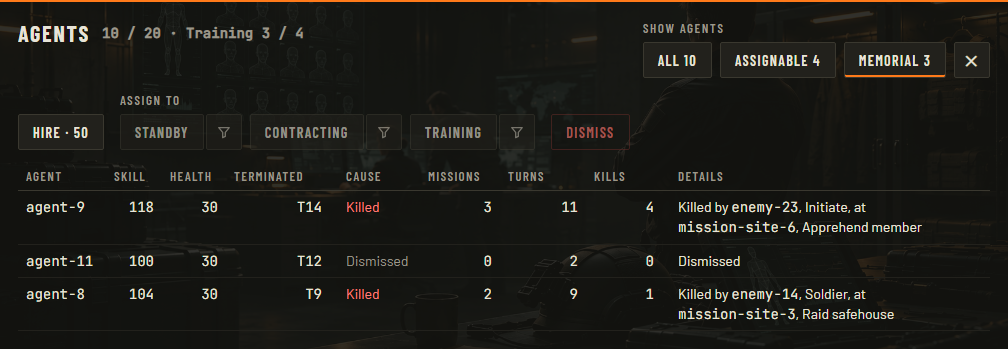
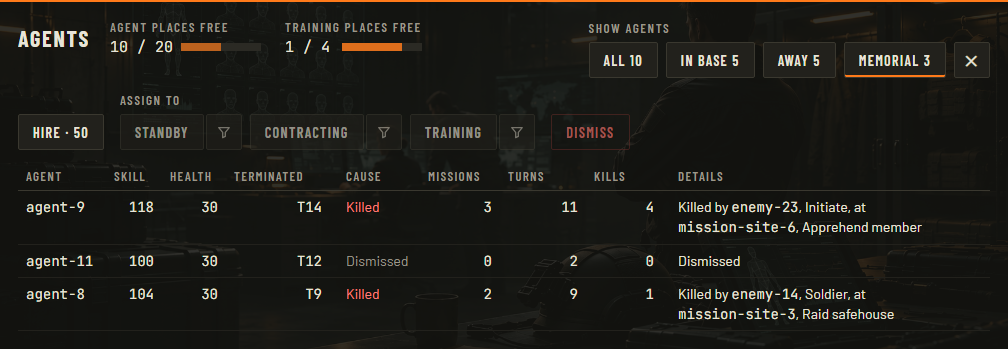
Add In base and Away, cap bars in the Agents View, and exclude GEO-3
Agents defines In base and Away as a partition of the Serving Agents,
independent of current health and exhaustion, and uses them where it
spoke loosely of agents in base or away.

The Agents View replaces the Assignable row filter with In base and
Away, and its header shows Agent places free and Training places free,
each with a fixed-width cap bar filled with the taken share, a new
component in Visual Design. Both Agents View Artboards are redrawn.

The music README gains an Excluded tracks section naming GEO-3, which
Music now leaves out of the Soundtrack, pending the Game designer's
review.

Changed region(s): [[0.0, 0.0573, 0.4306, 0.1719], [0.5843, 0.0573, 0.8304, 0.2292]]

diff --git a/docs/derived/glossary.md b/docs/derived/glossary.md
@@ -40,6 +40,7 @@ This page inventories declared glossary entries. It does not establish terminolo
 | Autopilot progress            | The Player actions and Turn advancements counted toward the Autopilot limit in the current Autopilot engagement, reported to the [Session controller](../specs/design/foundation/engine-contract.md#principals-and-access). The [Autopilot AI](../specs/design/foundation/engine-contract.md#principals-and-access) does not receive it.                                                                                                                                                                                                                                                                               | [AUTO — Autopilot](../specs/design/foundation/autopilot.md#glossary)                                                            |
 | Autosave                      | A Campaign save that the engine writes without a save request from the [Session controller](../specs/design/foundation/engine-contract.md#principals-and-access), under [Autosaves](../specs/design/foundation/saves.md#autosaves).                                                                                                                                                                                                                                                                                                                                                                                    | [SAVES — Saves](../specs/design/foundation/saves.md#glossary)                                                                   |
 | Autosave limit                | The number of Turns whose Turn-end Autosave is kept for one Campaign. It is a setting in [Global configuration](../specs/design/foundation/engine-contract.md#persisted-data).                                                                                                                                                                                                                                                                                                                                                                                                                                         | [SAVES — Saves](../specs/design/foundation/saves.md#glossary)                                                                   |
+| Away                          | Of a Serving Agent: not In base, i.e. In transit to any Assignment, Deployed, or At assignment on an Away Assignment, whatever its current health and exhaustion.                                                                                                                                                                                                                                                                                                                                                                                                                                                      | [AGENT — Agents](../specs/design/mechanics/agents-spec.md#glossary)                                                             |
 | Away Assignment               | Contracting or an [Investigation](../specs/design/mechanics/domain-model.md#leads-investigations-mission-sites-and-missions), the Assignments an Agent carries out away from base. Every move to or from them starts [In transit](../specs/design/mechanics/domain-model.md#agency-and-agents), and an Agent on one can only be recalled to Standby.                                                                                                                                                                                                                                                                   | [AGENT — Agents](../specs/design/mechanics/agents-spec.md#glossary)                                                             |
 | Background artwork            | An image that a [Detail view](../specs/design/ui/gui.md#glossary) draws faintly behind its content, under [Background artwork](../specs/design/ui/visual-design.md#background-artwork).                                                                                                                                                                                                                                                                                                                                                                                                                                | [VIS — Visual Design](../specs/design/ui/visual-design.md#glossary)                                                             |
 | Base Assignment               | Standby or Training, the Assignments an Agent carries out in the Agency's base. Moving between them takes no transit, and only an Agent on one can be deployed or given an Away Assignment.                                                                                                                                                                                                                                                                                                                                                                                                                            | [AGENT — Agents](../specs/design/mechanics/agents-spec.md#glossary)                                                             |
@@ -147,6 +148,7 @@ This page inventories declared glossary entries. It does not establish terminolo
 | Implementation repo           | A local Git repository whose root directory `<implementation-name>/` has the same parent directory as the Spec repo and which holds exactly one Implementation, e.g. `repos/game-v5-impl-a/`. Where the context means a place on disk, it means that root directory.                                                                                                                                                                                                                                                                                                                                                   | [PLACE — Implementation Placement](../specs/implementation/mandatory/implementation-placement.md#glossary)                      |
 | Implementer                   | The Persona that implements specifications as code and tests.                                                                                                                                                                                                                                                                                                                                                                                                                                                                                                                                                          | [CONV — Specification Conventions](../specs/governance/conventions/spec-conventions.md#glossary)                                |
 | Implementer feedback          | What an [Implementer](../specs/governance/conventions/spec-conventions.md#participants) learns about the specifications while building or updating an Implementation: the defects it met and the choices it made in their gaps.                                                                                                                                                                                                                                                                                                                                                                                        | [LOOP — Development Loop](../specs/governance/process/development-loop.md#glossary)                                             |
+| In base                       | Of a Serving Agent: At assignment on a Base Assignment, or Recovering, whatever its current health and exhaustion. Every Serving Agent is either In base or Away.                                                                                                                                                                                                                                                                                                                                                                                                                                                      | [AGENT — Agents](../specs/design/mechanics/agents-spec.md#glossary)                                                             |
 | In transit                    | The Agent status of an Agent still travelling to its Assignment.                                                                                                                                                                                                                                                                                                                                                                                                                                                                                                                                                       | [DOM — Domain Model](../specs/design/mechanics/domain-model.md#glossary)                                                        |
 | Incapacitated                 | Alive but too weakened to take further part in the current Combat.                                                                                                                                                                                                                                                                                                                                                                                                                                                                                                                                                     | [COMBAT — Combat](../specs/design/mechanics/combat.md#glossary)                                                                 |
 | Increment                     | How much one acquisition of an Upgrade raises the value it improves: the Upgrade's `increment`.                                                                                                                                                                                                                                                                                                                                                                                                                                                                                                                        | [ECON — Economy and Upgrades](../specs/design/mechanics/economy-and-upgrades.md#glossary)                                       |
@@ -284,6 +286,7 @@ Each row lists the Prohibited synonyms that the owning Glossary records for a te
 | Delegation run                                                                                                                                                                                                                                                                       | Autopilot engagement       | [ENG — Engine Contract](../specs/design/foundation/engine-contract.md#glossary)                    |
 | Delegation scope                                                                                                                                                                                                                                                                     | Autopilot limit            | [AUTO — Autopilot](../specs/design/foundation/autopilot.md#glossary)                               |
 | Autopilot memory checkpoint                                                                                                                                                                                                                                                          | Autopilot memory           | [ENG — Engine Contract](../specs/design/foundation/engine-contract.md#glossary)                    |
+| Out of base                                                                                                                                                                                                                                                                          | Away                       | [AGENT — Agents](../specs/design/mechanics/agents-spec.md#glossary)                                |
 | Maximum health; max health; full health                                                                                                                                                                                                                                              | Base health                | [AGENT — Agents](../specs/design/mechanics/agents-spec.md#glossary)                                |
 | Skill, naming the stored value                                                                                                                                                                                                                                                       | Base skill                 | [AGENT — Agents](../specs/design/mechanics/agents-spec.md#glossary)                                |
 | Weapon damage, naming the stored value                                                                                                                                                                                                                                               | Base weapon damage         | [AGENT — Agents](../specs/design/mechanics/agents-spec.md#glossary)                                |
@@ -310,6 +313,7 @@ Each row lists the Prohibited synonyms that the owning Glossary records for a te
 | Content entry; Content; entry; entries; Content definition; GDR role, for which say GDR purpose. The Content Family, document titles, and the Display content GDR purpose keep their names.                                                                                          | Game Data Record (GDR)     | [CORE — Core Concepts](../specs/design/foundation/core-concepts.md#glossary)                       |
 | Damage, as a noun on its own                                                                                                                                                                                                                                                         | Health removed             | [COMBAT — Combat](../specs/design/mechanics/combat.md#glossary)                                    |
 | Implementor                                                                                                                                                                                                                                                                          | Implementer                | [CONV — Specification Conventions](../specs/governance/conventions/spec-conventions.md#glossary)   |
+| At base                                                                                                                                                                                                                                                                              | In base                    | [AGENT — Agents](../specs/design/mechanics/agents-spec.md#glossary)                                |
 | Offensive mission                                                                                                                                                                                                                                                                    | Initiative Mission site    | [DOM — Domain Model](../specs/design/mechanics/domain-model.md#glossary)                           |
 | ID; Entity ID. GDR identifiers, Spec IDs, and other identifiers keep their own names.                                                                                                                                                                                                | Instance ID                | [CINST — Campaign Instances](../specs/design/foundation/campaign-instances.md#glossary)            |
 | Attempt. Attempts to execute commands or undertake Missions remain distinct.                                                                                                                                                                                                         | Investigation              | [DOM — Domain Model](../specs/design/mechanics/domain-model.md#glossary)                           |

diff --git a/docs/specs/design/mechanics/agents-spec.md b/docs/specs/design/mechanics/agents-spec.md
@@ -12,9 +12,9 @@
 
 Agents are the player's main resource: an [Agent](domain-model.md#agency-and-agents) is an operative of the [Agency](domain-model.md#agency-and-agents) who can do
 only one thing at a time, and changing what it does costs time. That one thing is its [Assignment](domain-model.md#agency-and-agents), e.g.
-Contracting to earn money or Training to gain base skill. Standby and Training are in the Agency's base, and Contracting
-and Investigations are away. Every trip to or from away work costs an Advance turn In transit, and only an Agent in base
-can be sent away or deployed to a [Mission site](domain-model.md#leads-investigations-mission-sites-and-missions), so Agents away are not at hand for one.
+Contracting to earn money or Training to gain base skill. Standby and Training are in the Agency's base, and
+Contracting and Investigations away. Every trip to or from away work costs an Advance turn In transit, and only an
+Agent In base, unless Recovering, can be sent away or deployed to a [Mission site](domain-model.md#leads-investigations-mission-sites-and-missions), so an Agent Away is not at hand.
 
 How well an Agent works and fights is its effective skill: its base skill, lowered by lost current health and by exhaustion
 above a free amount. Training raises base skill; work and [Combats](domain-model.md#combat) wear it down, so choosing an Assignment often
@@ -69,7 +69,7 @@ groups that decide whether a move between Assignments takes transit.
 
 ## Agent statuses
 
-Where an Agent stands toward its Assignment, and whether it still serves the Agency.
+Where an Agent stands toward its Assignment, whether it is in the Agency's base, and whether it still serves the Agency.
 
 | Term       | Definition                                                                                                                                                                     | Prohibited synonyms |
 | ---------- | ------------------------------------------------------------------------------------------------------------------------------------------------------------------------------ | ------------------- |
@@ -78,6 +78,8 @@ Where an Agent stands toward its Assignment, and whether it still serves the Age
 | Dismissed  | The Agent status of an Agent the player dismissed. It is final.                                                                                                                |                     |
 | Serving    | Having the Agent status [At assignment](domain-model.md#agency-and-agents), [In transit](domain-model.md#agency-and-agents), or Recovering, i.e. still employed by the Agency. |                     |
 | Terminated | Having the Agent status Killed or Dismissed, i.e. no longer employed by the Agency.                                                                                            |                     |
+| In base    | Of a Serving Agent: At assignment on a Base Assignment, or Recovering, whatever its current health and exhaustion. Every Serving Agent is either In base or Away.              | At base             |
+| Away       | Of a Serving Agent: not In base, i.e. In transit to any Assignment, Deployed, or At assignment on an Away Assignment, whatever its current health and exhaustion.              | Out of base         |
 
 # Agent GDRs
 
@@ -219,6 +221,11 @@ ending Turn 9 ends with Enemies killed 2, Turn terminated 9, and Killed by enemy
 The set is exhaustive. An Agent is Serving exactly when its Agent status is At assignment, In transit, or Recovering,
 and Terminated exactly when it is Killed or Dismissed. Every Agent is Serving when it is created, under
 [Agent creation](#agent-creation).
+
+A Serving Agent is In base exactly when it is At assignment on Standby or Training, or Recovering, and Away otherwise,
+i.e. when it is In transit, whatever its Assignment, Deployed, or At assignment on Contracting or an Investigation.
+Neither depends on its current health or its exhaustion, and a Terminated Agent is neither. Whether an Agent is In base
+or Away is a Derived value, never stored.
 
 While an Agent is Serving, its Agent status moves between At assignment, In transit, and Recovering only as its
 Assignment changes and as it arrives, under [Assignment changes](#assignment-changes) and
@@ -413,7 +420,7 @@ Where an Agent that can be assigned may go depends on where it is:
 - **From base:** an Agent on a [Base Assignment](#assignments) can be given any Assignment the player can give: the
   other Base Assignment, Contracting, an Investigation, or Deployed.
 - **From away:** an Agent on an [Away Assignment](#assignments) can only be recalled, i.e. assigned to Standby. It
-  cannot be assigned to Training, Contracting, or an Investigation, or deployed, until it is back in base.
+  cannot be assigned to Training, Contracting, or an Investigation, or deployed, until it is [In base](#agent-statuses).
 
 A new Work Assignment also requires that the Agent is Fit for work, under
 [Start-work gate](#start-work-gate). `dismissAgents`, which ends the Assignment instead of changing it, has its
@@ -433,7 +440,7 @@ assigned to Standby and can be deployed, under [Deploying Agents](missions.md#de
 
 The gate applies only when the work starts. An Agent already on a Work Assignment keeps working whatever its exhaustion,
 until it is assigned elsewhere or until its [Forced return](#forced-return). E.g., with the Bootstrap values, an Agent
-on Contracting with exhaustion 45 keeps earning and can be recalled to Standby, and once back in base cannot be assigned
+on Contracting with exhaustion 45 keeps earning and can be recalled to Standby, and once In base cannot be assigned
 to Contracting, Training, or an Investigation until its exhaustion falls to 30.
 
 ## Assignment changes
@@ -528,7 +535,7 @@ Advance turn, so under statement 3 they are still In transit when it ends, and t
 **Informative rationale:** No GDR supplies a transit duration, so every transit takes exactly one Advance turn. Every
 trip to or from an [Away Assignment](#assignments) therefore costs one Advance turn before the Agent works,
 while moving within base and deploying from base cost none, and returning from a Mission costs one Turn during which
-the Agent can do nothing. Keeping Agents in base is the price of having them ready for a Mission site.
+the Agent can do nothing. Keeping Agents In base is the price of having them ready for a Mission site.
 
 # Training growth
 
@@ -765,7 +772,7 @@ moment it exists, without a reveal condition, for every Agent whatever its Agent
 | An Agent's base skill, current health, base health, exhaustion, Weapon, and base weapon damage                       | Yes                        |
 | An Agent's effective skill                                                                                           | Yes                        |
 | An Agent's Agent status, and its Assignment, including the Investigation or Mission it references                    | Yes                        |
-| Whether an Agent can be assigned, and whether it is Fit for work                                                     | Yes                        |
+| Whether an Agent can be assigned, whether it is Fit for work, and whether it is In base or Away                      | Yes                        |
 | An Agent's Participation history                                                                                     | Yes                        |
 | An Agent's Enemies killed, Turn terminated, and Killed by, including the Enemy and Mission site Killed by references | Yes                        |
 | Every property of the AgentArchetype and of AgentParameters                                                          | Yes                        |

diff --git a/docs/specs/design/ui/screens/agents-view.md b/docs/specs/design/ui/screens/agents-view.md
@@ -23,9 +23,18 @@ it is one table, because the Player compares Agents with one another and acts on
 
 # Header
 
-The header shows the number of [Serving](../../mechanics/agents-spec.md#agent-statuses) Agents against the [Agent cap](../../mechanics/domain-model.md#agency-and-agents) and the number of Agents counted against
-the [Training cap](../../mechanics/economy-and-upgrades.md#glossary) against that cap, e.g. "Agents 10 / 12 · Training 2 / 3", with the counts centred on the title, under
-[Alignment](../visual-design.md#alignment) in Visual Design, and these controls, in this order:
+After the title, side by side, the header shows how many places are still free under two caps, so that the Player sees
+how much room is left to hire and to train:
+
+1. **Agent places free:** the [Agent cap](../../mechanics/domain-model.md#agency-and-agents) minus the number of [Serving](../../mechanics/agents-spec.md#agent-statuses) Agents, against the Agent cap.
+2. **Training places free:** the [Training cap](../../mechanics/economy-and-upgrades.md#glossary) minus the number of Agents counted against it, against the Training cap.
+
+Each is its Label above its free count, in the Figure style, followed by its cap bar, under [Cap bars](../visual-design.md#cap-bars) in Visual Design, and the
+two together are as tall as the title's line and centred on it, under [Alignment](../visual-design.md#alignment) in Visual Design. A free count
+is never shown below 0. A cap bar fills with the share of its cap that is taken, not the share that is free, e.g.
+with Training places free 4 / 12, its cap bar is filled two thirds of the way from the left.
+
+Under the title row, the header holds these controls, in this order:
 
 1. **Hire,** labelled with `hire_cost`, which makes one `hireAgent` [Player action](../../foundation/engine-contract.md#player-actions-and-turns), under [Hiring Agents](../../mechanics/economy-and-upgrades.md#hiring-agents) in
    Economy and Upgrades.
@@ -50,15 +59,16 @@ shown Agents can be selected.
 
 ## Row filters
 
-At the right of the title row, a group labelled "Show agents" holds three filters, each with its count, of which
+At the right of the title row, a group labelled "Show agents" holds four filters, each with its count, of which
 exactly one is on at a time. All is on whenever the Agents View opens. The filters sit level with the close control,
 with their Label above them, under [Alignment](../visual-design.md#alignment) in Visual Design.
 
 - **All:** every Serving [Agent](../../mechanics/domain-model.md#agency-and-agents).
-- **Assignable:** every Serving Agent that can be assigned, under [Agents that can be assigned](../../mechanics/agents-spec.md#agents-that-can-be-assigned) in Agents, and is
-  [Fit for work](../../mechanics/agents-spec.md#assignments). It leaves out e.g. a Deployed Agent, a Recovering Agent, an Agent In transit, and an Agent too
-  exhausted to start work.
+- **[In base](../../mechanics/agents-spec.md#agent-statuses):** every Agent In base, i.e. [At assignment](../../mechanics/domain-model.md#agency-and-agents) on Standby or Training, or [Recovering](../../mechanics/agents-spec.md#agent-statuses), whatever its [current health](../../mechanics/agents-spec.md#combatant-attributes) and [exhaustion](../../mechanics/agents-spec.md#combatant-attributes).
+- **[Away](../../mechanics/agents-spec.md#agent-statuses):** every Agent Away, i.e. [In transit](../../mechanics/domain-model.md#agency-and-agents), [Deployed](../../mechanics/agents-spec.md#assignments), or At assignment on Contracting or an [Investigation](../../mechanics/domain-model.md#leads-investigations-mission-sites-and-missions), whatever its current health and exhaustion.
 - **Memorial:** every [Terminated](../../mechanics/agents-spec.md#agent-statuses) Agent, under [Memorial](#memorial).
+
+In base and Away split the Serving Agents, so their counts add up to the count of All.
 
 ## Assignment filters
 
@@ -107,7 +117,7 @@ Blocked by of a row that can be selected is empty, and so is every row's while n
 4. **On assignment:** it is on Contracting or an Investigation and the Assignment filter that is on is for Contracting
    or Training.
 5. **Already on Standby, Contracting, or Training:** the Assignment filter that is on is for the Assignment it has.
-6. **Too exhausted:** it is not Fit for work and the Assignment filter that is on is for Contracting or Training.
+6. **Too exhausted:** it is not [Fit for work](../../mechanics/agents-spec.md#assignments) and the Assignment filter that is on is for Contracting or Training.
 7. **Training full:** the Training Assignment filter is on and the [Training cap](../../mechanics/economy-and-upgrades.md#glossary) has no place left.
 8. **Otherwise:** the message of the engine's rejection.
 
@@ -139,7 +149,7 @@ in place of the table, with a control that returns to it: its AgentArchetype's `
 
 # Artboard
 
-![Agents View panel Artboard: the header with Agent and Training counts, the Hire button, the Assign to group of Standby, Contracting, and Training buttons each with its Assignment filter, the Contracting one on, and the Dismiss button; the Show agents filters All, Assignable, and Memorial; and the table of Serving Agents with a Select all checkbox, their skill, colour-coded health and exhaustion, weapon damage, Assignment, and Blocked by, sorted first by the locked Blocked by tier so that the Agents that can be selected come first and then by effective skill, with each muted row saying what blocks it](../../../../images/artboards/agents-view.png)
+![Agents View panel Artboard: the header with the Agent places free and Training places free, each with its cap bar, the Hire button, the Assign to group of Standby, Contracting, and Training buttons each with its Assignment filter, the Contracting one on, and the Dismiss button; the Show agents filters All, In base, Away, and Memorial; and the table of Serving Agents with a Select all checkbox, their skill, colour-coded health and exhaustion, weapon damage, Assignment, and Blocked by, sorted first by the locked Blocked by tier so that the Agents that can be selected come first and then by effective skill, with each muted row saying what blocks it](../../../../images/artboards/agents-view.png)
 
 ![Agents View Memorial panel Artboard: the Memorial filter on, the Assign to group and Dismiss disabled, and the table of Terminated Agents with base skill, base health, Turn terminated, cause, Missions, Turns with the Agency, Enemies killed, and details of how each Agent's service ended](../../../../images/artboards/agents-memorial.png)
 

diff --git a/docs/specs/design/ui/visual-design.md b/docs/specs/design/ui/visual-design.md
@@ -173,7 +173,7 @@ these rules, at every window width, and no alignment is left to the content an e
 exhaustive.
 
 - **Text on one line:** pieces of text of one size on one line share one baseline. Smaller text after a heading on
-  its line, e.g. the figures "20 / 20 · Training 4 / 4" after the title "Agents" in the Agents View or the money
+  its line, e.g. the free places and their cap bars after the title "Agents" in the Agents View or the money
   after the title of the Upgrades View, is centred on the heading: the middle of its capitals sits level with the
   middle of the heading's capitals, never on the heading's baseline. Text is never centred on its line by the height
   of its box, because styles of different sizes then sit at different heights.
@@ -473,6 +473,15 @@ A meter shows a value against its limit, e.g. Panic against the Panic limit. It 
 tall with 3 px gaps. Each full tenth of the limit fills one segment in Accent, a remaining part of a tenth fills the next
 segment in Accent dim, and the other segments are Divider. The value and the limit are written above the meter's right
 end in Accent text, e.g. "24 / 100%".
+
+## Cap bars
+
+A cap bar shows at a glance how much of a cap is taken, e.g. of the [Agent cap](../mechanics/domain-model.md#agency-and-agents), so that the Player sees how much room
+is left without reading numbers. It is a solid bar 80 px wide and 8 px tall on a Divider track, whatever the size of
+the cap, so that a growing cap never widens it. Its fill covers, from the left, the share of the cap that is taken,
+coloured as the Fill of [Progress bars](#progress-bars), from Accent dim when the cap is empty to Accent when it is
+full; a cap with more taken than it allows shows a full bar. The exact values stand beside the bar as text, because the
+bar alone does not give them.
 
 ## Tallies
 

diff --git a/docs/specs/design/ui/music.md b/docs/specs/design/ui/music.md
@@ -44,7 +44,8 @@ formats; the list is complete:
 - MP3, with the extension `.mp3`, for music whose source cannot export Ogg Opus.
 
 The Soundtrack is every such file, and the Game build supplies every Track unchanged, in its own format. Any other file
-in the directory, e.g. a README, is not a Track.
+in the directory, e.g. a README, is not a Track, and neither is a file that the Excluded tracks section of the
+directory's `README.md` names: the Game designer keeps it there, pending review, and it is never played.
 
 The Track title is the file name without its extension, unchanged, so that the title the Player sees is the name of
 the file that holds the Track. E.g., the file `GEO-4.opus` is the Track titled "GEO-4". No two Tracks have the same

diff --git a/assets/music/README.md b/assets/music/README.md
@@ -35,6 +35,12 @@ source.
 | `GEO-24.mp3`  | Bass clarinet + muted trombone var1                     | Suno v6           |
 | `GEO-25.mp3`  | Bass clarinet + muted trombone var2                     | Suno v6           |
 
+## Excluded tracks
+
+The Game designer excluded these files from the Soundtrack, pending review, so they are kept here but never played:
+
+- `GEO-3.opus`
+
 ## Tracks from ElevenLabs
 
 All the `.opus` files are from [ElevenLabs](https://elevenlabs.io/), each saved under the file name ElevenLabs gave it,
